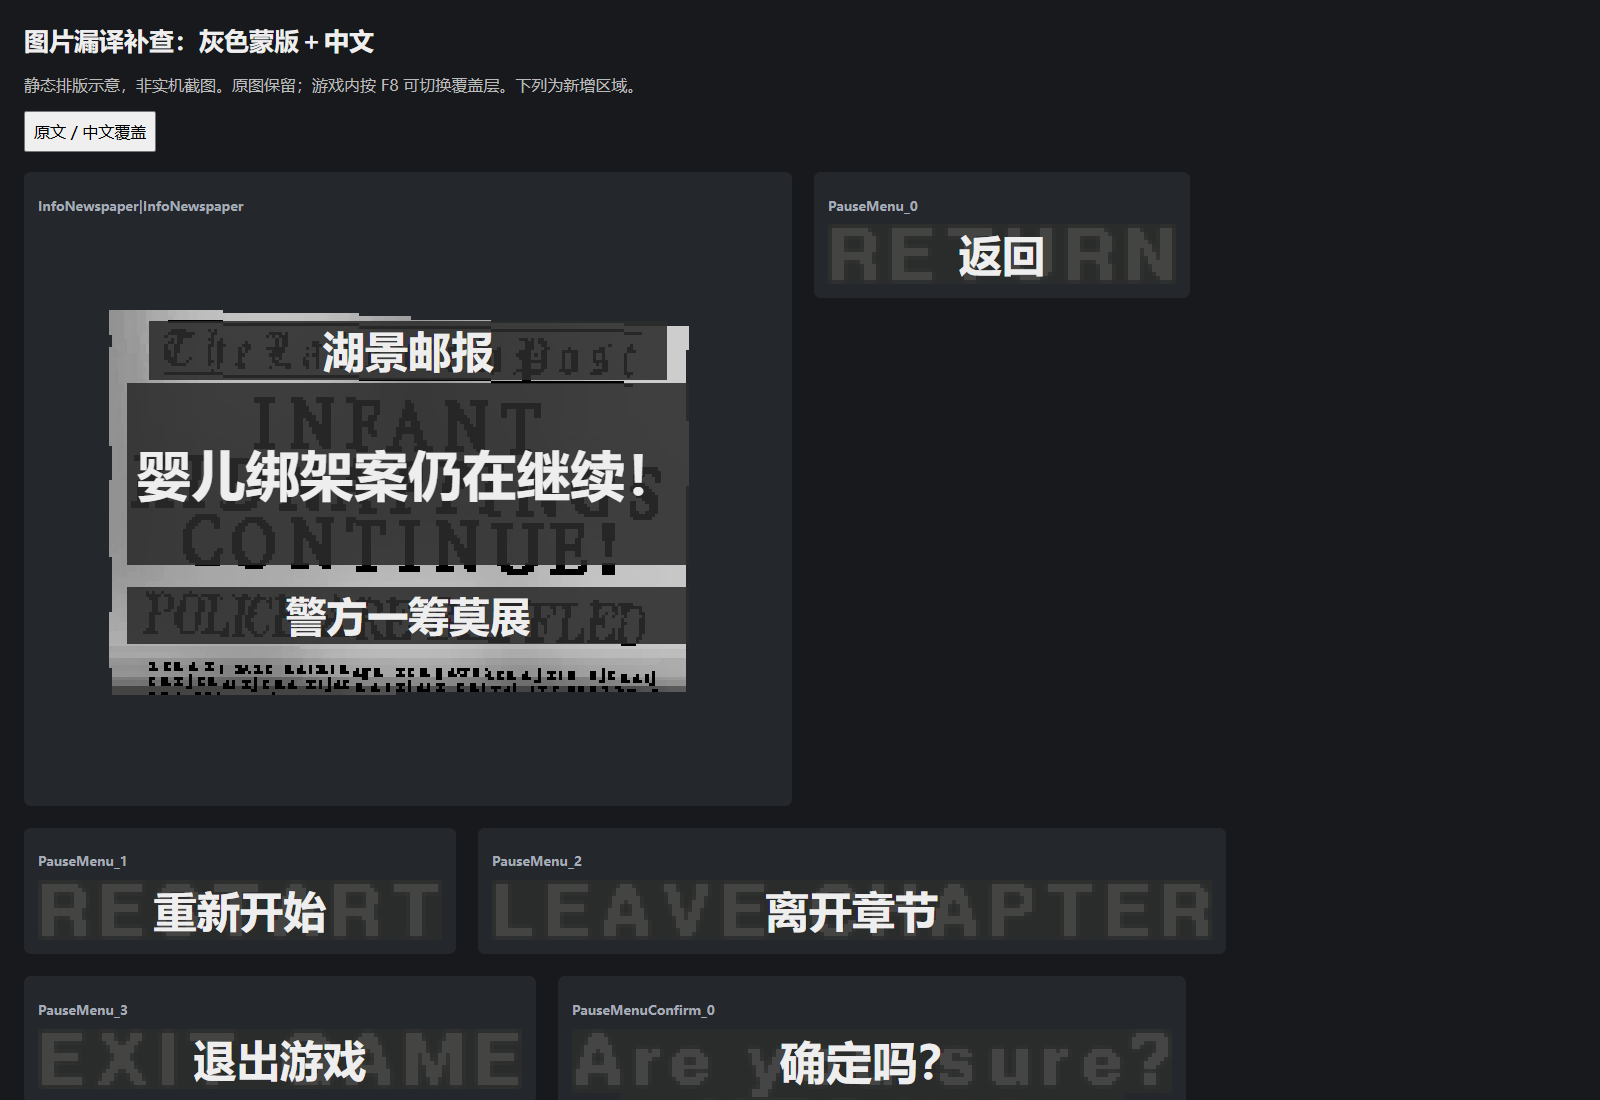
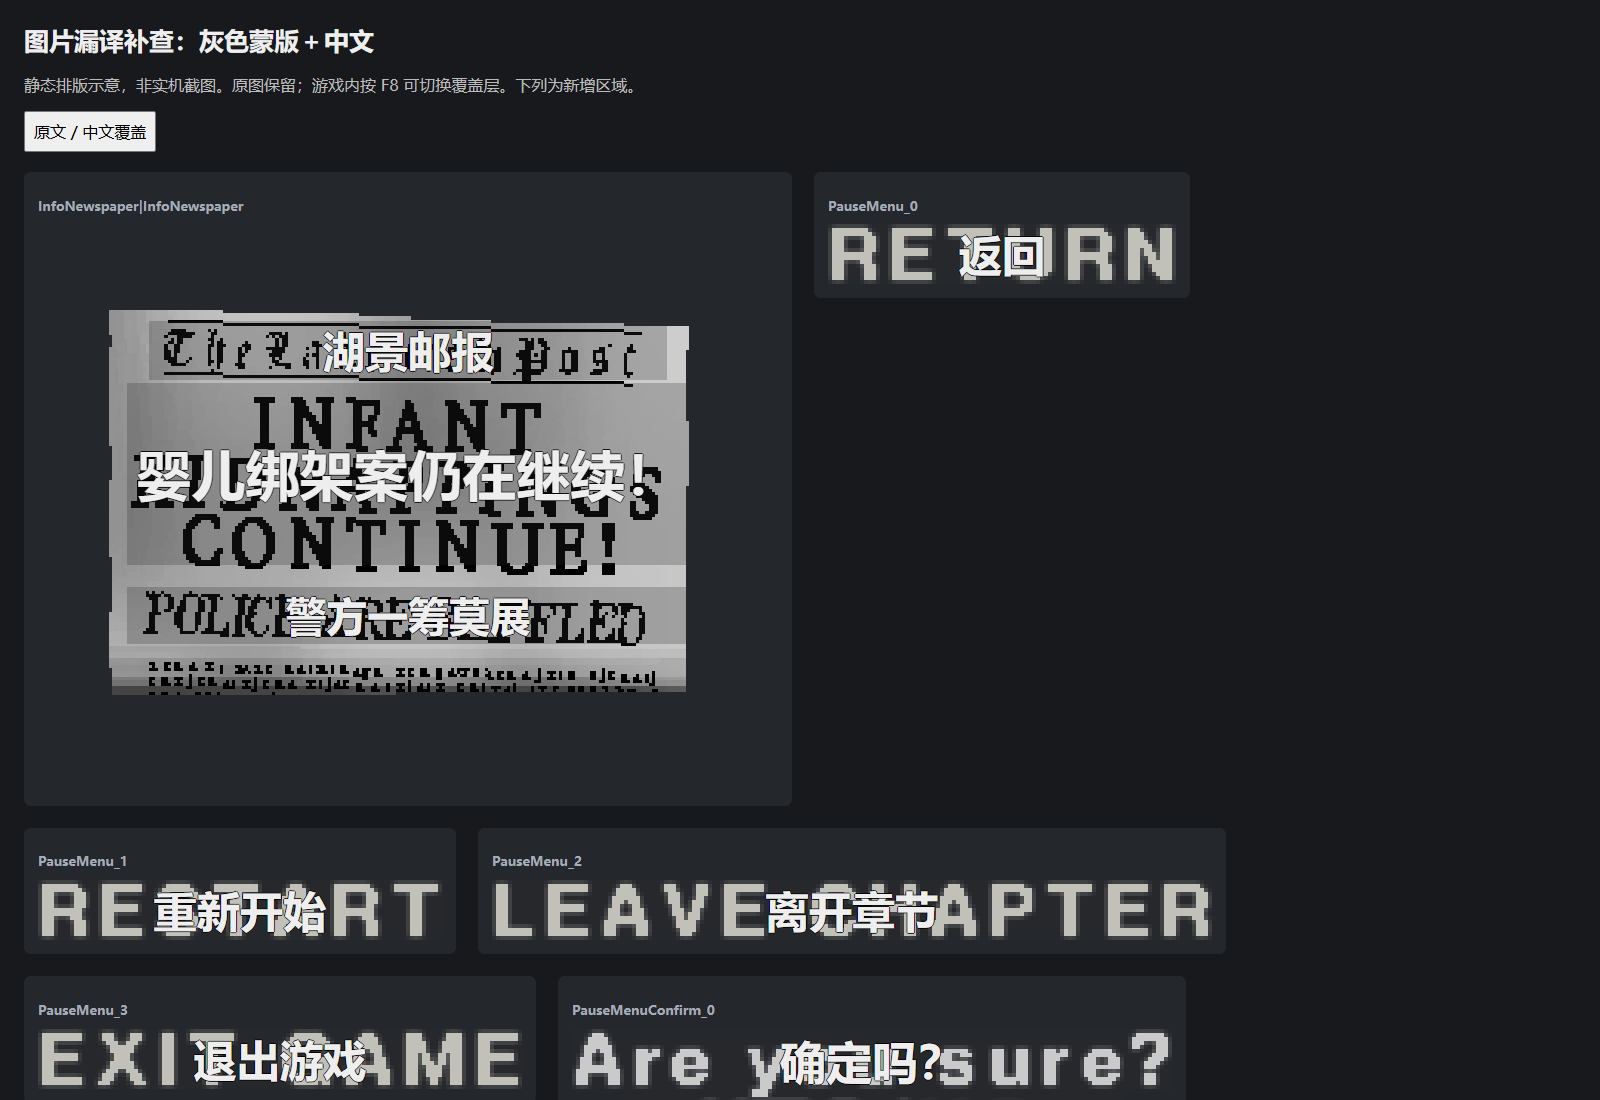
修复: 降低图片灰底遮挡并支持描边与背景切换

diff --git a/ImageOverlay/ChineseOverlay.cs b/ImageOverlay/ChineseOverlay.cs
@@ -9,6 +9,7 @@ namespace LakeviewChinese {
         private Camera[] cameras = new Camera[0];
         private float nextScan;
         private bool show = true;
+        private int appearanceMode;
         private Font font;
         private GUIStyle style;
         private readonly Dictionary<string, Entry[]> entries = OverlayData.Create();
@@ -21,12 +22,18 @@ namespace LakeviewChinese {
             root.AddComponent<ChineseOverlay>();
         }
         private void Awake() {
+            appearanceMode = Mathf.Clamp(PlayerPrefs.GetInt(Appearance.PreferenceKey, Appearance.DefaultMode), 0, Appearance.PanelAlpha.Length-1);
             try { font = Font.CreateDynamicFontFromOSFont(new string[] { "Microsoft YaHei", "SimHei", "Arial Unicode MS" }, 24); }
             catch (Exception ex) { Debug.LogWarning("Chinese image overlay font: " + ex.Message); }
-            Debug.Log("Lakeview Chinese image overlay loaded. F8 toggles original/Chinese.");
+            Debug.Log("Lakeview Chinese image overlay loaded. F8 toggles original/Chinese; F7 cycles light/no/clear background.");
         }
         private void Update() {
             if (Input.GetKeyDown(KeyCode.F8)) show = !show;
+            if (Input.GetKeyDown(KeyCode.F7)) {
+                appearanceMode = (appearanceMode + 1) % Appearance.PanelAlpha.Length;
+                PlayerPrefs.SetInt(Appearance.PreferenceKey, appearanceMode);
+                PlayerPrefs.Save();
+            }
             if (Time.realtimeSinceStartup < nextScan) return;
             nextScan = Time.realtimeSinceStartup + 0.3f;
             sprites = UnityEngine.Object.FindObjectsOfType<SpriteRenderer>();
@@ -91,8 +98,11 @@ namespace LakeviewChinese {
                     float x=sr.flipX ? 1f-label.X-label.W : label.X;
                     float y=sr.flipY ? 1f-label.Y-label.H : label.Y;
                     Rect box = new Rect(screen.x + screen.width * x, screen.y + screen.height * y, screen.width * label.W, screen.height * label.H);
-                    GUI.color = new Color(0.17f, 0.17f, 0.17f, 0.88f * sr.color.a);
-                    GUI.DrawTexture(box, Texture2D.whiteTexture);
+                    float panelAlpha = label.Note ? Appearance.NoteAlpha[appearanceMode] : Appearance.PanelAlpha[appearanceMode];
+                    if (panelAlpha > 0f) {
+                        GUI.color = new Color(0.17f, 0.17f, 0.17f, panelAlpha * sr.color.a);
+                        GUI.DrawTexture(box, Texture2D.whiteTexture);
+                    }
                     float padding = label.Note ? Mathf.Max(4f, box.width * 0.035f) : Mathf.Max(1f, box.height * 0.05f);
                     Rect textBox = new Rect(box.x + padding, box.y + padding, box.width - 2 * padding, box.height - 2 * padding);
                     style.alignment = label.Note ? TextAnchor.UpperLeft : TextAnchor.MiddleCenter;
@@ -106,6 +116,12 @@ namespace LakeviewChinese {
                     float brightness = Mathf.Max(sr.color.r, Mathf.Max(sr.color.g, sr.color.b));
                     if (sr.sprite.name.StartsWith("PauseMenuConfirm_") && label.Y >= 0.49f && !label.Bright) brightness *= 0.42f;
                     GUI.color = Color.white;
+                    // A thin glyph outline preserves contrast without covering the artwork.
+                    style.normal.textColor = new Color(0f, 0f, 0f, Appearance.OutlineAlpha * sr.color.a);
+                    GUI.Label(new Rect(textBox.x-1f,textBox.y,textBox.width,textBox.height), content, style);
+                    GUI.Label(new Rect(textBox.x+1f,textBox.y,textBox.width,textBox.height), content, style);
+                    GUI.Label(new Rect(textBox.x,textBox.y-1f,textBox.width,textBox.height), content, style);
+                    GUI.Label(new Rect(textBox.x,textBox.y+1f,textBox.width,textBox.height), content, style);
                     style.normal.textColor = new Color(label.Bright ? 1f : Mathf.Max(0.4f, brightness), label.Bright ? 0.96f : Mathf.Max(0.4f, brightness), label.Bright ? 0.88f : Mathf.Max(0.4f, brightness), sr.color.a);
                     GUI.Label(textBox, content, style);
                 }

diff --git a/ImageOverlay/build_overlay.py b/ImageOverlay/build_overlay.py
@@ -1,6 +1,7 @@
 """Build an additive runtime text layer and code-native previews. Original PNGs stay untouched."""
 import base64,csv,hashlib,html,json,shutil,subprocess
 from pathlib import Path
+from appearance import CONFIG as APPEARANCE, css as appearance_css, csharp as appearance_csharp
 ROOT=Path(__file__).resolve().parents[1]
 HERE=Path(__file__).resolve().parent
 WORK=ROOT/'TranslateFiles/image-overlay'
@@ -136,8 +137,9 @@ for name,labels in spec.items():
  lines.append('{'+json.dumps(name)+',new Entry[]{'+','.join(vals)+'}},')
 lines.append('}; } } }')
 (BUILD/'OverlayData.cs').write_text('\n'.join(lines),encoding='utf-8-sig')
+(BUILD/'Appearance.cs').write_text(appearance_csharp(),encoding='utf-8-sig')
 csc=Path('C:/Windows/Microsoft.NET/Framework/v3.5/csc.exe')
-run([csc,'/nologo','/target:library','/nostdlib','/out:'+str(OUT/'LakeviewChineseOverlay.dll'),'/reference:'+str(DATA/'Managed/mscorlib.dll'),'/reference:'+str(DATA/'Managed/System.dll'),'/reference:'+str(DATA/'Managed/UnityEngine.dll'),HERE/'ChineseOverlay.cs',BUILD/'OverlayData.cs'])
+run([csc,'/nologo','/target:library','/nostdlib','/out:'+str(OUT/'LakeviewChineseOverlay.dll'),'/reference:'+str(DATA/'Managed/mscorlib.dll'),'/reference:'+str(DATA/'Managed/System.dll'),'/reference:'+str(DATA/'Managed/UnityEngine.dll'),HERE/'ChineseOverlay.cs',BUILD/'OverlayData.cs',BUILD/'Appearance.cs'])
 cecil=ROOT.parents[1]/'Tools/XUnity.AutoTranslator/libs/Mono.Cecil.dll'
 run(['C:/Windows/Microsoft.NET/Framework/v4.0.30319/csc.exe','/nologo','/out:'+str(BUILD/'PatchBootstrap.exe'),'/reference:'+str(cecil),HERE/'PatchBootstrap.cs'])
 shutil.copy2(cecil,BUILD/'Mono.Cecil.dll')
@@ -154,6 +156,7 @@ if incremental.exists():
 if last.exists():
  manifest['final_translation_sha256']=more['translation_sha256'];manifest['final_labels']=more['labels'];manifest['final_unbound_regions']=len(more['unbound'])
 manifest['mapping_corrections']=mapping_corrections
+manifest['appearance']=APPEARANCE
 if corrections.exists():
  manifest['corrections_translation_sha256']=fixed['translation_sha256'];manifest['corrections_labels']=fixed['labels']
 for file in ('Assembly-CSharp.dll','LakeviewChineseOverlay.dll'):
@@ -195,5 +198,5 @@ for name,imgfile in previews:
 page='''<!doctype html><html lang="zh-CN"><meta charset="utf-8"><title>图片文字覆盖预览</title><style>
 body{background:#17191d;color:#eee;font:16px "Microsoft YaHei",sans-serif;margin:32px}h1{font-size:26px}h2{font-size:14px;color:#a5acb7}main{display:flex;flex-wrap:wrap;gap:26px;align-items:flex-start}section{background:#22252b;padding:18px;border-radius:8px}.sprite{position:relative;background-repeat:no-repeat;image-rendering:pixelated}.label{position:absolute;box-sizing:border-box;background:rgba(43,43,43,.88);display:flex;align-items:center;justify-content:center;text-align:center;font-weight:bold;line-height:1.2;padding:2px;overflow:hidden;white-space:pre-line}.label.note{display:block;text-align:left;font-weight:normal;padding:12px;line-height:1.35}body.original .label{visibility:hidden}button{font:inherit;padding:8px 14px;margin-bottom:22px}p{color:#a5acb7;max-width:850px}
 </style><h1>灰色半透明蒙版＋中文</h1><p>静态排版预览，非游戏截图。保留原贴图，覆盖层可独立关闭。实际游戏字号随精灵在屏幕上的尺寸适配；以下展示暂停菜单、确认框及便条样式。</p><button onclick="document.body.classList.toggle('original')">对照：原文 / 中文覆盖</button><main>'''+''.join(cards)+'''</main><script>for(const el of document.querySelectorAll('.label')){while((el.scrollHeight>el.clientHeight||el.scrollWidth>el.clientWidth)&&parseFloat(getComputedStyle(el).fontSize)>9){el.style.fontSize=(parseFloat(getComputedStyle(el).fontSize)-1)+'px';}}</script></html>'''
-(HERE/'preview.html').write_text(page,encoding='utf-8')
+(HERE/'preview.html').write_text(page.replace('</style>',appearance_css()+'</style>'),encoding='utf-8')
 print(json.dumps({'status':'built_not_game_tested','sprite_names':len(spec),'labels':manifest['labels'],'preview':str(HERE/'preview.html')}))

diff --git a/ImageOverlay/preview_audit.py b/ImageOverlay/preview_audit.py
@@ -2,6 +2,7 @@
 from pathlib import Path
 import base64,html,json
 from PIL import Image
+from appearance import css as appearance_css
 HERE=Path(__file__).resolve().parent
 ROOT=HERE.parent
 spec=json.loads((HERE/'overlay_map.json').read_text('utf-8'))
@@ -38,5 +39,5 @@ cards.sort(key=lambda c:priority.index(c[0]) if c[0] in priority else 99)
 page='''<!doctype html><html lang="zh-CN"><meta charset="utf-8"><title>图片漏译补查预览</title><style>
 body{margin:24px;background:#17191d;color:#eee;font:16px "Microsoft YaHei",sans-serif}h1{font-size:25px}h2{font-size:13px;color:#a5acb7}p{color:#bbb}main{display:flex;flex-wrap:wrap;gap:22px;align-items:flex-start}section{padding:14px;background:#24272c;border-radius:7px}.sprite{position:relative;image-rendering:pixelated;background-repeat:no-repeat}.label{position:absolute;box-sizing:border-box;background:rgba(43,43,43,.88);display:flex;align-items:center;justify-content:center;text-align:center;font-weight:bold;line-height:1.2;white-space:pre-line;padding:2px;overflow:hidden}.note{display:block;text-align:left;font-weight:normal;padding:3.5%;line-height:1.25}body.original .label{visibility:hidden}button{font:inherit;padding:8px;margin-bottom:20px}
 </style><h1>图片漏译补查：灰色蒙版＋中文</h1><p>静态排版示意，非实机截图。原图保留；游戏内按 F8 可切换覆盖层。下列为新增区域。</p><button onclick="document.body.classList.toggle('original')">原文 / 中文覆盖</button><main>'''+''.join(c[1] for c in cards)+'''</main><script>const measure=document.createElement('canvas').getContext('2d');function fits(el){if(el.scrollHeight>el.clientHeight+1||el.scrollWidth>el.clientWidth+1)return false;if(el.classList.contains('note'))return true;const cs=getComputedStyle(el);measure.font=cs.fontWeight+' '+cs.fontSize+' '+cs.fontFamily;const width=el.clientWidth-parseFloat(cs.paddingLeft)-parseFloat(cs.paddingRight);return el.textContent.split('\\n').every(line=>measure.measureText(line).width<=width+1);}for(const el of document.querySelectorAll('.label')){while(!fits(el)&&parseFloat(getComputedStyle(el).fontSize)>8){el.style.fontSize=(parseFloat(getComputedStyle(el).fontSize)-.5)+'px';}}</script></html>'''
-(HERE/'audit_preview.html').write_text(page,encoding='utf-8')
+(HERE/'audit_preview.html').write_text(page.replace('</style>',appearance_css()+'</style>'),encoding='utf-8')
 print(json.dumps({'sprite_cards':len(cards)}))

diff --git a/ImageOverlay/appearance.py b/ImageOverlay/appearance.py
@@ -1,0 +1,23 @@
+"""Shared runtime and static-preview appearance parameters."""
+import json
+from pathlib import Path
+
+CONFIG = json.loads(Path(__file__).with_suffix('.json').read_text(encoding='utf-8'))
+
+def css():
+    mode = CONFIG['modes'][CONFIG['default_mode']]
+    return ('.label{background:rgba(43,43,43,' + str(mode['panel_alpha']) + ');'
+            'text-shadow:-1px 0 rgba(0,0,0,.9),1px 0 rgba(0,0,0,.9),'
+            '0 -1px rgba(0,0,0,.9),0 1px rgba(0,0,0,.9)}'
+            '.label.note{background:rgba(43,43,43,' + str(mode['note_alpha']) + ')}')
+
+def csharp():
+    def values(key):
+        return ','.join(str(float(mode[key]))+'f' for mode in CONFIG['modes'])
+    return ('namespace LakeviewChinese { internal static class Appearance { '
+            'internal const int DefaultMode = '+str(CONFIG['default_mode'])+'; '
+            'internal const string PreferenceKey = '+json.dumps(CONFIG['preference_key'])+'; '
+            'internal const float OutlineAlpha = '+str(CONFIG['outline_alpha'])+'f; '
+            'internal static readonly float[] PanelAlpha = new float[]{'+values('panel_alpha')+'}; '
+            'internal static readonly float[] NoteAlpha = new float[]{'+values('note_alpha')+'}; '
+            '} }')

diff --git a/README.md b/README.md
@@ -1,6 +1,7 @@
 # Lakeview Cabin Collection 汉化项目
 
 ## 当前交付状态（2026-10-24）
+- 用户反馈已进游戏测试“问题不大”，但灰底遮挡原画较多。已安装轻底修正版：普通标签25%、长便条40%不透明，中文加1像素细黑描边；F7循环轻底→无底→清晰底并记忆，F8开关中文。新样式静态通过，实际观感待用户复测。
 - 交付复核达到可进游戏测试验收的进度：6个正式翻译批次的原文/译文哈希、单列格式、记录数和完整语义审校状态均通过，当前安装与静态报告一致；见 [交付核查](ImageText/readiness_audit.json)。这不代表全游戏实机验证完成。
 - 当前安装18个载荷文件，图片覆盖层170处、138个匹配键；本轮31条新增/修正图片原文已完成独立语义审校和正式导出。
 - 已纠正2处EXIT标牌错译、文字贴在出售牌支架/骷髅帧上的问题、分开的SPACE/PSYCHOS重复标题、RED WAS HERE涂鸦错误及广告区域遮挡。
@@ -114,7 +115,7 @@
 - 静态校验：18个载荷哈希一致；1674个 Texture2D、2607个 Sprite 对象与原始数据完全一致；HTML预览20个覆盖区未溢出。
 - 状态：等待用户实机测试。没有启动游戏或控制电脑；旧的实机报告不适用于新增的DLL载荷。
 - 预览与测试说明：ImageOverlay/preview.png、ImageOverlay/preview.html、ImageOverlay/README.md。
-- 局限：尚未覆盖全部标题、美术字及环境文字；摄像机/特效/分辨率下的实际对齐、选中高亮、便条字号由用户测试。灰底88%不透明，原文仍在下方可见。
+- 局限：尚未覆盖全部标题、美术字及环境文字；摄像机/特效/分辨率下的实际对齐、选中高亮、便条字号由用户测试。此阶段曾用88%不透明灰底；2026-10-24已改为下述轻底样式。
 
 ## 协作偏好
 - 用户明确不希望代理控制电脑或自行启动游戏。后续只执行文件处理和静态校验；需要实机验证时提供步骤，由用户测试。

diff --git a/ImageOverlay/TESTING.md b/ImageOverlay/TESTING.md
@@ -2,6 +2,8 @@
 
 本次由代理完成文件处理、翻译审校、编译、静态预览和安装；没有启动游戏或控制桌面。静态通过不能代替实机通过，尚未对外发布。
 
+2026-10-24反馈：用户已测试旧样式，认为“问题不大”，但灰底过浓。本次只调整显示样式，尚待复测。默认普通标签25%不透明、便条40%，中文加细黑描边。按F7循环“轻底→无底→清晰底”，自动记忆；清晰底为普通55%/便条65%。F8仍开关中文。可先在报纸和一张长便条上比较，选择原画与中文阅读最合适的一档。
+
 1. 从Steam正常启动游戏，检查中文字体有无方框、乱码或异常小字。先使用1920×1080或你平常的分辨率；低分辨率的世界场景标语须另看是否拥挤。静态大场景预览按约1920像素宽渲染，不能当作所有分辨率均通过。
 2. 暂停菜单、确认框和操作提示：中文应与按钮含义对应。按F8切换中文覆盖层与原图，确认原图仍在、切换正常。
 3. 再打开之前截图的报纸：应看到“湖景邮报”“婴儿绑架案仍在继续！”“警方一筹莫展”。检查便条、日记阅读界面的长句和换行。

diff --git a/ImageText/COVERAGE.md b/ImageText/COVERAGE.md
@@ -2,6 +2,8 @@
 
 已安装本轮可确认并有显示绑定的新增/修正项，仍待用户实机验收。不能称全游戏完全汉化或零漏检。
 
+用户已反馈初步测试“问题不大”，但灰底遮挡太多。当前安装样式已从88%灰底改为普通25%/便条40%并加中文细描边，F7可切换无底或清晰底；此调整已完成静态检查，实际观感仍待复测。
+
 | 项目 | 已完成 |
 |---|---|
 | 检测 | 1666张GPU PP-OCRv6 medium，0失败 |
